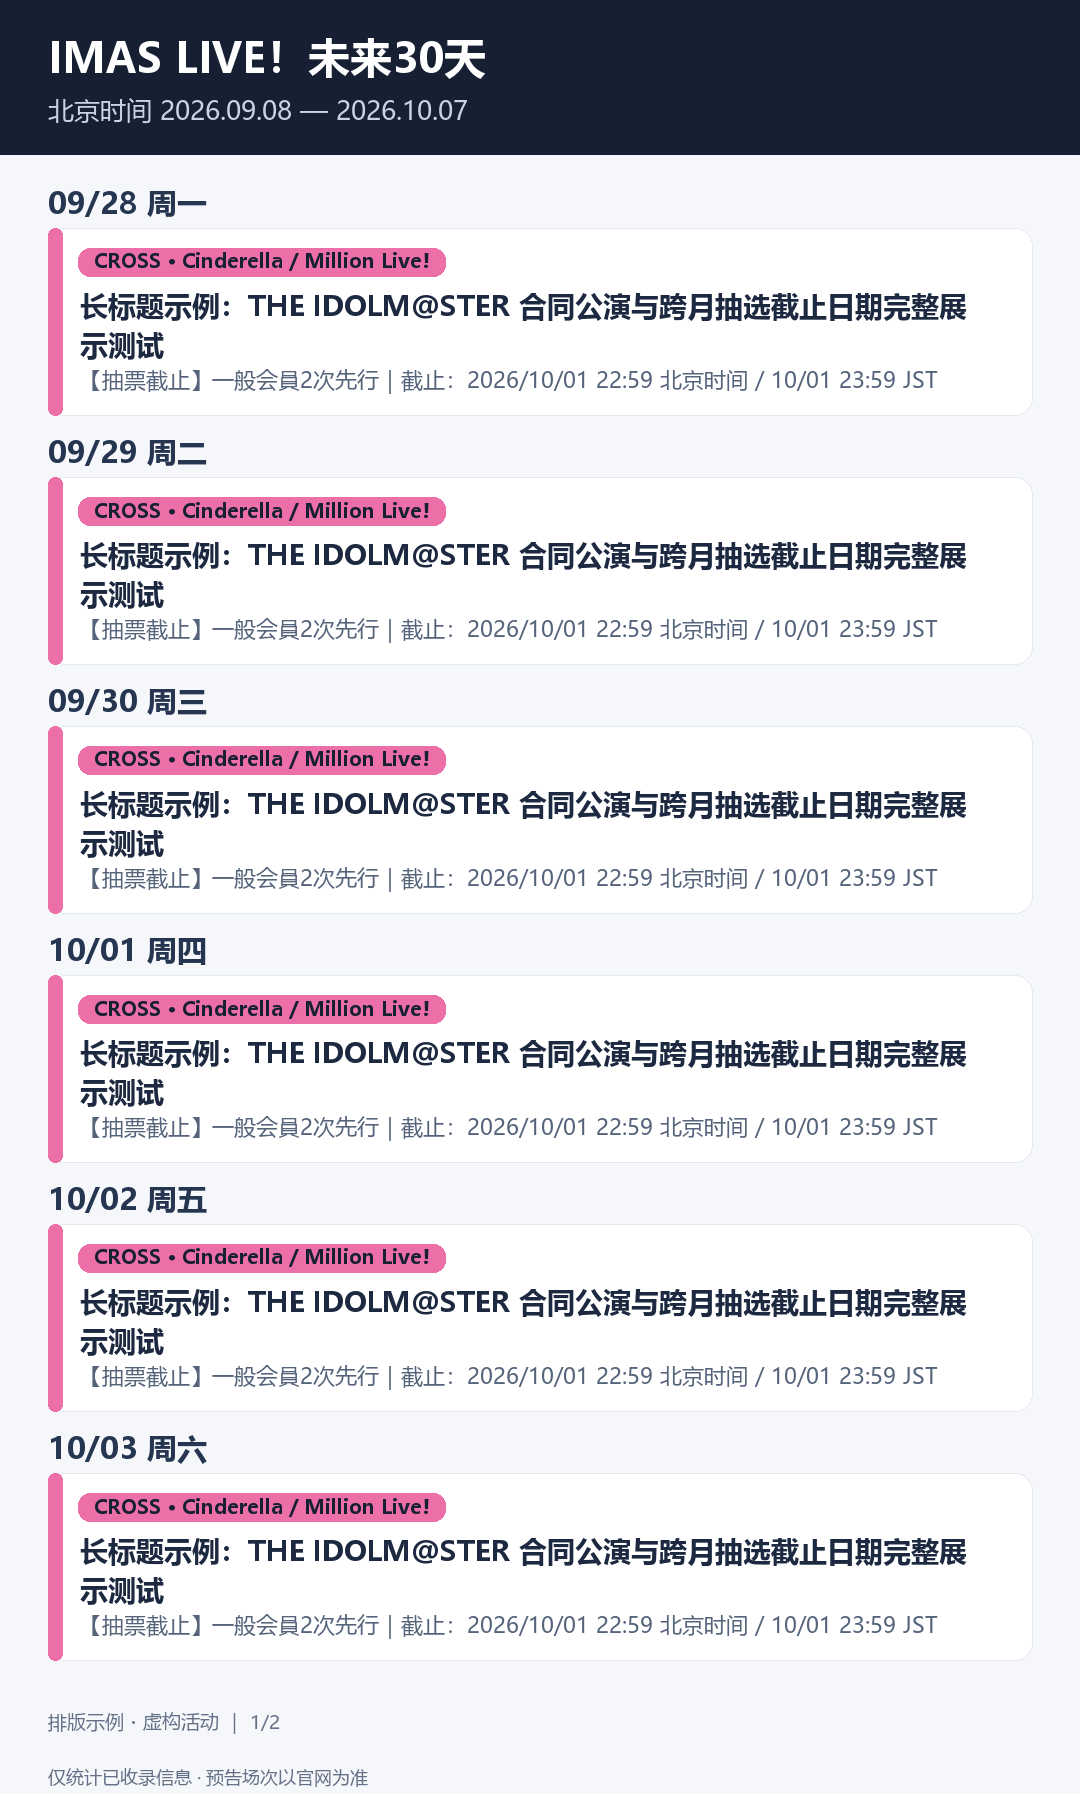
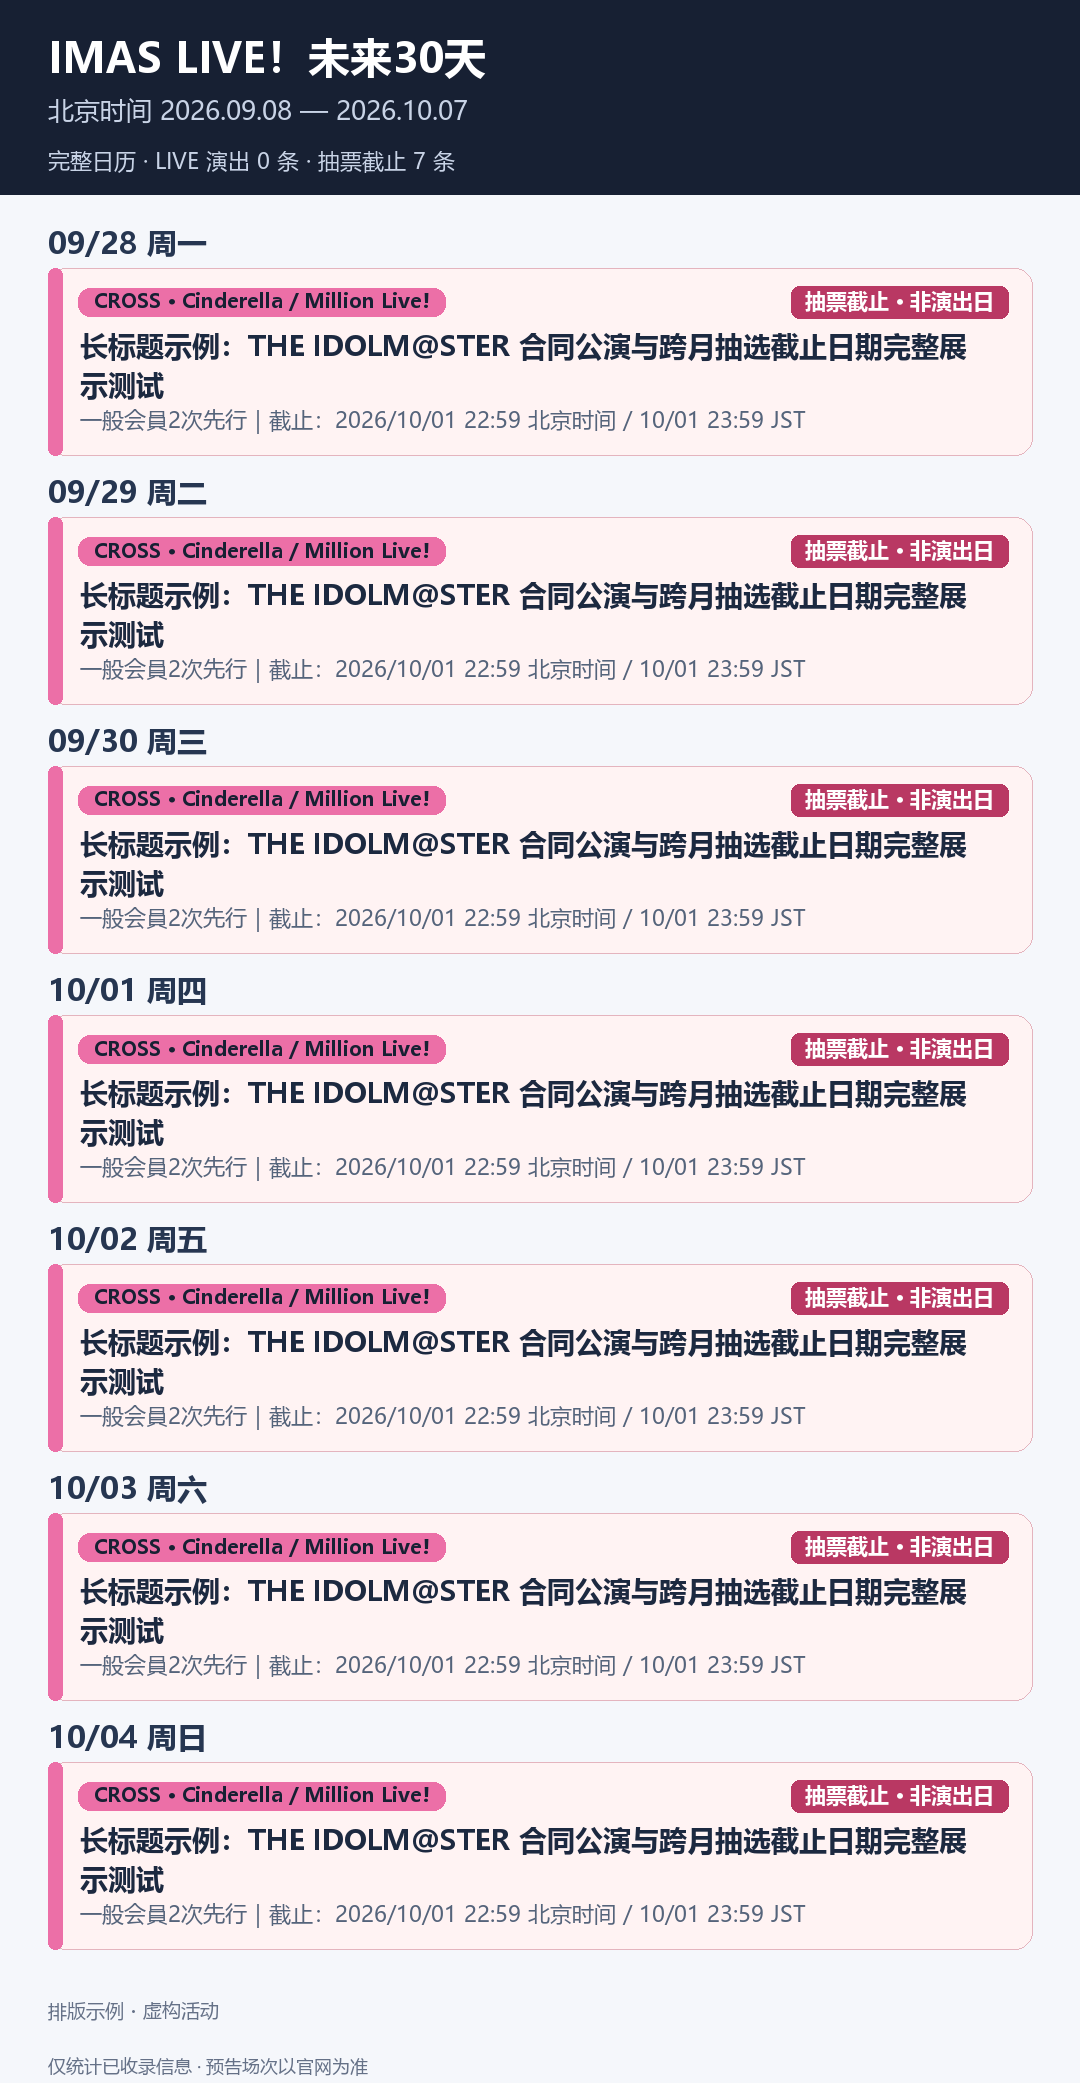
fix: show the full live calendar in one image and distinguish deadlines

Changed region(s): [[0.0, 0.0, 1.0, 0.9989]]

diff --git a/imas_live/render.py b/imas_live/render.py
@@ -2,7 +2,6 @@
 
 from __future__ import annotations
 
-from collections import defaultdict
 from datetime import date, datetime
 from pathlib import Path
 import re
@@ -35,7 +34,7 @@ NEUTRAL = "#7b8794"
 class CalendarRenderer:
     width = 1080
     margin = 48
-    header_height = 154
+    header_height = 194
     footer_height = 32
 
     def __init__(self, output_dir: Path, font_path: str = ""):
@@ -102,20 +101,29 @@ class CalendarRenderer:
         draw = ImageDraw.Draw(Image.new("RGB", (1, 1)))
         color, label, _ = self._brand_style(entry["brands"])
         width = self.width - 180
-        labels = self._wrap(draw, label, self.font(20, True), width)
+        labels = self._wrap(draw, label, self.font(20, True), width - 270)
         title = self._wrap(draw, entry["title"], self.font(28, True), width)
-        kind = "抽票截止" if entry.get("kind") == "deadline" or reminder else "演出"
-        subtitle = f"【{kind}】" + entry["subtitle"]
+        deadline = entry.get("kind") == "deadline" or reminder
+        subtitle = entry["subtitle"]
         if reminder:
             subtitle += f"\n剩余约 {entry['remaining_minutes']} 分钟"
         sub = self._wrap(draw, subtitle, self.font(22), width)
-        return {"color": color, "labels": labels, "title": title, "sub": sub,
+        return {"color": color, "labels": labels, "title": title, "sub": sub, "deadline": deadline,
                 "height": 48 + 30 * len(labels) + 39 * len(title) + 31 * len(sub)}
 
     def _draw_card(self, draw, card: dict, y: int) -> None:
         left, right = self.margin, self.width - self.margin
-        draw.rounded_rectangle((left, y, right, y + card["height"]), radius=18, fill="white", outline="#e3e8f1")
+        deadline = card['deadline']
+        draw.rounded_rectangle((left, y, right, y + card["height"]), radius=18,
+                               fill='#fff3f3' if deadline else 'white', outline='#e4b4be' if deadline else '#e3e8f1')
         draw.rounded_rectangle((left, y, left + 14, y + card["height"]), radius=7, fill=card["color"])
+        badge = '抽票截止 · 非演出日' if deadline else 'LIVE 演出'
+        font = self.font(21, True)
+        badge_width = round(draw.textlength(badge, font=font)) + 28
+        draw.rounded_rectangle((right - badge_width - 24, y + 18, right - 24, y + 50), radius=8,
+                               fill='#b93863' if deadline else '#e9eff7')
+        draw.text((right - badge_width - 10, self._centered_text_y(y + 18, 32, draw.textbbox((0, 0), badge, font=font))),
+                  badge, font=font, fill='white' if deadline else '#263651')
         cursor = y + 20
         for label in card["labels"]:
             font = self.font(20, True)
@@ -146,58 +154,41 @@ class CalendarRenderer:
         return path
 
     def render_calendar(self, entries: list[dict[str, Any]], start: date, end: date, generated_at: datetime, status: str = "") -> list[Path]:
-        pages, current, used = [], [], 190
-        for entry in sorted(entries, key=lambda row: row["display_date"]):
-            card = self._card_layout(entry)
-            # Split extraordinarily long entries into continuation cards instead of clipping.
-            while card["height"] > 1450 and (len(card["title"]) > 12 or len(card["sub"]) > 12):
-                head = {**card, "title": card["title"][:12], "sub": card["sub"][:12]}
-                head["height"] = 48 + 30 * len(head["labels"]) + 39 * len(head["title"]) + 31 * len(head["sub"])
-                pages.append([(entry["display_date"], head)]) if not current else pages.extend([current, [(entry["display_date"], head)]])
-                current, used = [], 190
-                card["title"], card["sub"] = card["title"][12:], card["sub"][12:]
-                card["height"] = 48 + 30 * len(card["labels"]) + 39 * len(card["title"]) + 31 * len(card["sub"])
-            new_day = not current or current[-1][0] != entry['display_date']
-            needed = 16 + card["height"] + (46 if new_day else 0)
-            if current and used + needed + 110 > 1840:
-                pages.append(current)
-                current, used = [], 190
-                needed = 62 + card['height']
-            current.append((entry["display_date"], card))
-            used += needed
-        if current or not pages:
-            pages.append(current)
-        output = []
-        zone = "北京时间" if str(generated_at.tzinfo) == "Asia/Shanghai" else str(generated_at.tzinfo)
-        for index, page in enumerate(pages, 1):
-            height = max(620, 190 + sum(card['height'] + 16 + (46 if i == 0 or page[i-1][0] != day else 0)
-                                      for i, (day, card) in enumerate(page)) + 110)
-            image = Image.new("RGB", (self.width, height), "#f5f7fb")
-            draw = ImageDraw.Draw(image)
-            draw.rectangle((0, 0, self.width, 154), fill="#172033")
-            draw.text((48, 28), "IMAS LIVE！未来30天", font=self.font(42, True), fill="white")
-            draw.text((48, 92), f"{zone} {start:%Y.%m.%d} — {end:%Y.%m.%d}", font=self.font(26), fill="#c8d3e6")
-            y = 182
-            if not page:
-                message = '数据尚未同步完成，请稍后再发送 /imaslive。' if '尚未同步' in status else '这 30 天内暂无已收录的演出或抽票截止。'
-                draw.text((48, 246), message, font=self.font(30, True), fill="#25324a")
-            last_day = None
-            for day, card in page:
-                value = date.fromisoformat(day)
-                weekday = "一二三四五六日"[value.weekday()]
-                marker = "今天" if value == start else ""
-                if day != last_day:
-                    draw.text((48, y), f"{value:%m/%d} 周{weekday}  {marker}", font=self.font(30, True), fill="#263651")
-                    y += 46
-                last_day = day
-                self._draw_card(draw, card, y)
-                y += card["height"] + 16
-            footer = (status or "尚未同步") + f" ｜ {index}/{len(pages)}"
-            for number, line in enumerate(self._wrap(draw, footer, self.font(19), self.width - 96)[:2]):
-                draw.text((48, height - 86 + 27 * number), line, font=self.font(19), fill="#657187")
-            draw.text((48, height - 30), "仅统计已收录信息 · 预告场次以官网为准", font=self.font(18), fill="#657187")
-            output.append(self._save(image, "calendar"))
-        return output
+        # One measured canvas keeps the complete 30-day window in a single image.
+        cards = [(entry['display_date'], self._card_layout(entry))
+                 for entry in sorted(entries, key=lambda row: row['display_date'])]
+        height = max(620, self.header_height + 36 + sum(
+            card['height'] + 16 + (46 if i == 0 or cards[i-1][0] != day else 0)
+            for i, (day, card) in enumerate(cards)) + 110)
+        image = Image.new('RGB', (self.width, height), '#f5f7fb')
+        draw = ImageDraw.Draw(image)
+        draw.rectangle((0, 0, self.width, self.header_height), fill='#172033')
+        draw.text((48, 28), 'IMAS LIVE！未来30天', font=self.font(42, True), fill='white')
+        zone = '北京时间' if str(generated_at.tzinfo) == 'Asia/Shanghai' else str(generated_at.tzinfo)
+        draw.text((48, 92), f'{zone} {start:%Y.%m.%d} — {end:%Y.%m.%d}', font=self.font(26), fill='#c8d3e6')
+        performance_count = sum(not card['deadline'] for _, card in cards)
+        deadline_count = len(cards) - performance_count
+        draw.text((48, 145), f'完整日历 · LIVE 演出 {performance_count} 条 · 抽票截止 {deadline_count} 条',
+                  font=self.font(22), fill='#c8d3e6')
+        y = self.header_height + 28
+        if not cards:
+            message = '数据尚未同步完成，请稍后再发送 /imaslive。' if '尚未同步' in status else '这 30 天内暂无已收录的演出或抽票截止。'
+            draw.text((48, 276), message, font=self.font(30, True), fill='#25324a')
+        last_day = None
+        for day, card in cards:
+            value = date.fromisoformat(day)
+            weekday = '一二三四五六日'[value.weekday()]
+            marker = '今天' if value == start else ''
+            if day != last_day:
+                draw.text((48, y), f'{value:%m/%d} 周{weekday}  {marker}', font=self.font(30, True), fill='#263651')
+                y += 46
+            last_day = day
+            self._draw_card(draw, card, y)
+            y += card['height'] + 16
+        for number, line in enumerate(self._wrap(draw, status or '尚未同步', self.font(19), self.width - 96)[:2]):
+            draw.text((48, height - 86 + 27 * number), line, font=self.font(19), fill='#657187')
+        draw.text((48, height - 30), '仅统计已收录信息 · 预告场次以官网为准', font=self.font(18), fill='#657187')
+        return [self._save(image, 'calendar')]
 
     def render_reminder(self, rows: list[dict[str, Any]], generated_at: datetime) -> Path:
         cards = [self._card_layout(row, True) for row in rows]

diff --git a/tests/test_calendar.py b/tests/test_calendar.py
@@ -42,19 +42,23 @@ class CalendarTests(unittest.TestCase):
             visible_center = text_top + (bbox[1] + bbox[3]) / 2
             self.assertAlmostEqual(visible_center, 35, delta=0.5)
 
-    def test_many_same_day_entries_paginate_without_losing_cards(self):
+    def test_busy_month_and_late_shiny_dates_stay_in_one_image(self):
         with tempfile.TemporaryDirectory() as tmp:
             renderer = CalendarRenderer(Path(tmp))
             now = datetime(2026, 9, 8, tzinfo=ZoneInfo('Asia/Shanghai'))
             rows = [{'kind': 'performance', 'display_date': '2026-09-08', 'title': f'演出 {i}',
                      'subtitle': '场次示例', 'brands': ['SIDEM']} for i in range(25)]
+            rows += [{'kind': 'performance', 'display_date': f'2026-09-{day}', 'title': 'Shiny Master ShowPiece',
+                      'subtitle': f'DAY{day-25}', 'brands': ['SHINYCOLORS']} for day in (26, 27)]
             with patch.object(renderer, '_draw_card', wraps=renderer._draw_card) as draw_card:
-                paths = renderer.render_calendar(rows, now.date(), now.date(), now, '测试')
-            self.assertEqual(draw_card.call_count, 25)
-            self.assertGreater(len(paths), 1)
-            for path in paths:
-                with Image.open(path) as image:
-                    self.assertLessEqual(image.height, 1840)
+                paths = renderer.render_calendar(rows, now.date(), now.date().replace(month=10, day=7), now, '测试')
+            self.assertEqual(draw_card.call_count, 27)
+            self.assertEqual(len(paths), 1)
+            self.assertEqual(draw_card.call_args_list[-1].args[1]['title'], ['Shiny Master ShowPiece'])
+            with Image.open(paths[0]) as image:
+                self.assertGreater(image.height, 1840)
+                last_card = draw_card.call_args_list[-1].args
+                self.assertLess(last_card[2] + last_card[1]['height'], image.height - 86)
 
     def test_group_switch_persists_and_blocks_only_that_group(self):
         with tempfile.TemporaryDirectory() as tmp:

diff --git a/README.md b/README.md
@@ -8,7 +8,7 @@
 
 在 AstrBot 插件管理中使用仓库地址 `https://github.com/huvz04/astrbot_plugin_imas_live` 安装或更新。插件启动、安装和热重载后都会自动同步，第一次查询会等待活动目录就绪（最多 40 秒，后台同步继续运行）。未同步完成时图片会明确提示，不会把同步失败解释成没有活动。
 
-它会生成真实 PNG 图片，展示按北京时间从今天起 30 个自然日的纵向日期列表。演出日和已核验的现场抽选截止日分别进入同一滚动窗口：即使演出较远，只要抽选截止落在这 30 天内也会显示。
+它会生成一张完整 PNG 长图，展示按北京时间从今天起 30 个自然日的纵向日期列表，月底活动也包含在同一张图片中。演出日和已核验的现场抽选截止日分别进入同一滚动窗口：即使演出较远，只要抽选截止落在这 30 天内也会显示。
 
 这不是票务代办工具。插件不会登录票务站、查询个人中签/付款/库存，也不会把先到先得、转售、配信或物販整理券当作抽选截止提醒。
 
@@ -16,7 +16,8 @@
 
 - 六家企划沿用 birthday 插件的色彩基线，并显示紧凑的官方英文品牌名，例如 `Gakuen`、`Shiny Colors`、`Million Live!`；多企划归属的官方合同活动使用粉色。未知品牌使用灰色，不猜成合同。
 - 场次优先显示专题页中已解析的场地；没有场次级场地时，回退使用官网活动目录的 `event_place` 字段。
-- 同日昼夜场会各自保留；长标题自动换行，跨月有标记，多页会分页而不裁切或无限缩小字体。
+- 同日昼夜场会各自保留；长标题自动换行，按内容自动增加图片高度，完整展示全部日期，不分页、不裁切或缩小字体。
+- 正常演出使用白底与 `LIVE 演出` 标识；抽票截止使用浅红底与 `抽票截止 · 非演出日` 标识，企划色条和标签继续保留。
 - 截止卡标出活动、轮次及含年份的北京时间。演出日期缺失或待核验时不会编造。
 - 没有记录时仍会生成清晰的空状态图片。
 - 本地 Pillow 渲染，自动寻找 Windows 微软雅黑/游ゴシック或 Linux Noto CJK/文泉驿。Linux/Docker 环境需要安装中日文字体，例如 Debian/Ubuntu 的 `fonts-noto-cjk`，也可将字体挂载到容器内并配置 `font_path`。无需浏览器。
@@ -61,7 +62,6 @@ python -m unittest discover -s tests -v
 已导出并视觉检查的 PNG 预览：
 
 - [普通日历](previews/normal-calendar.png)
-- [普通日历第 2 页](previews/normal-calendar-2.png)
 - [长标题、合同和跨月](previews/long-cross-month.png)
 - [空状态](previews/empty-calendar.png)
 - [截止提醒卡](previews/deadline-reminder.png)（模拟进入截止前 60 分钟）
